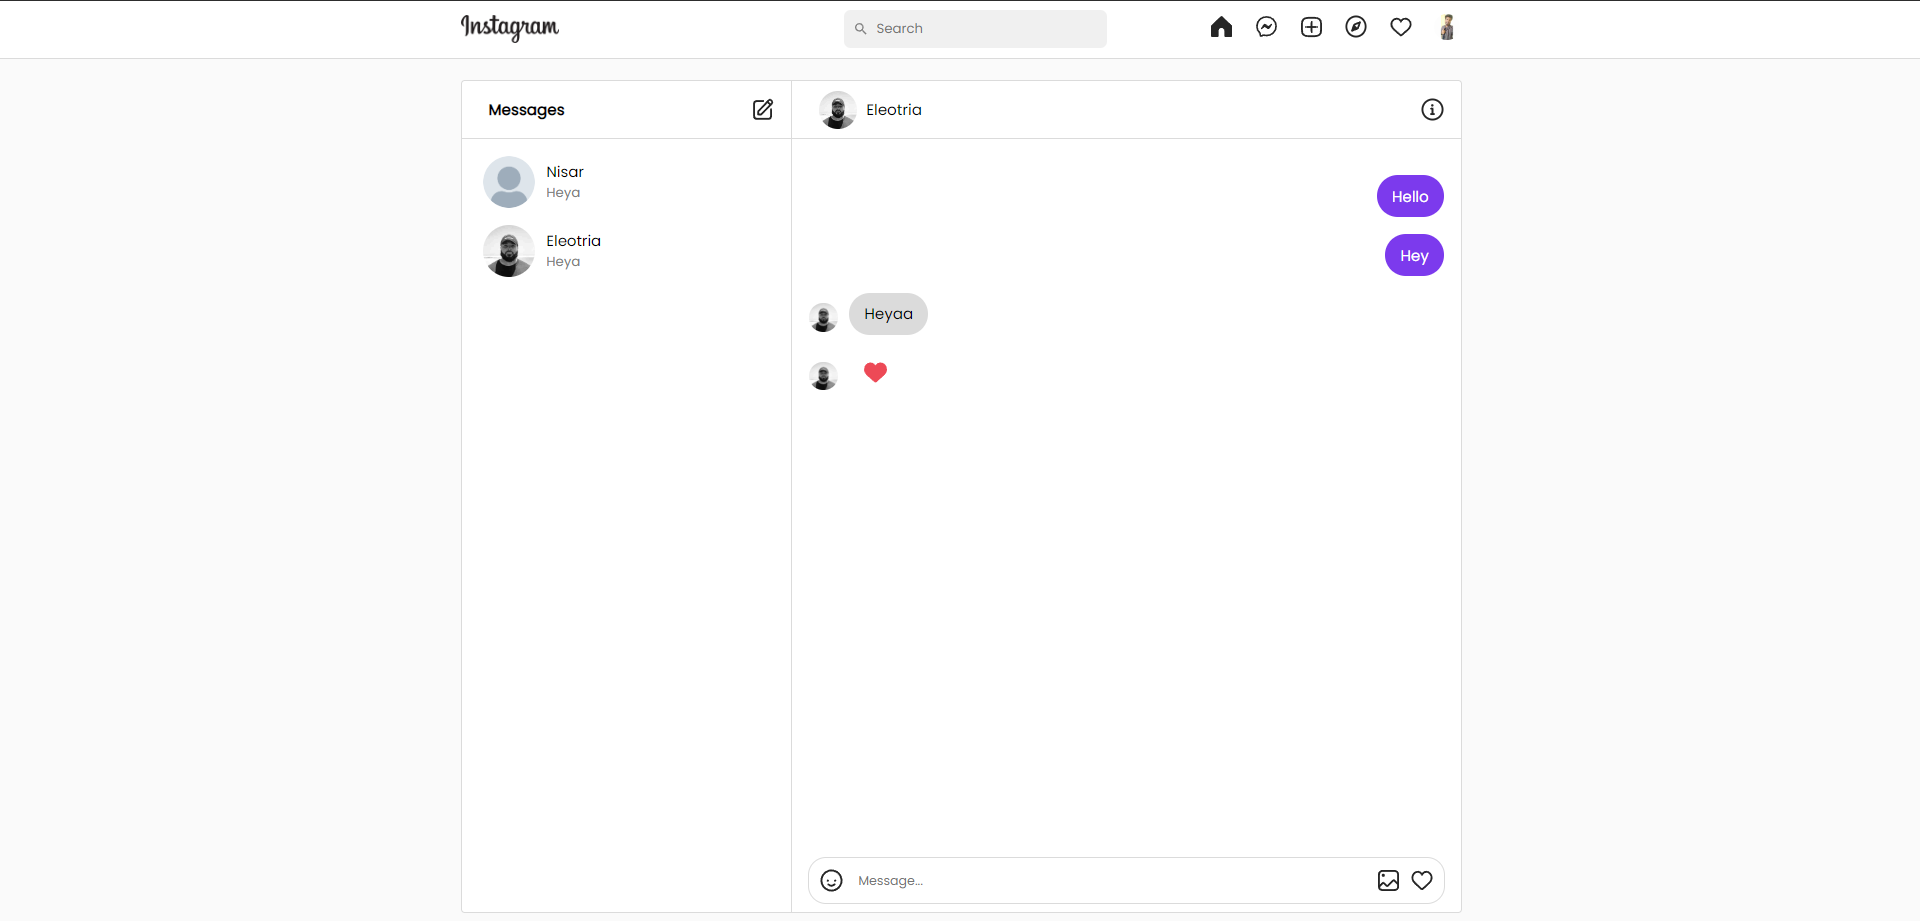
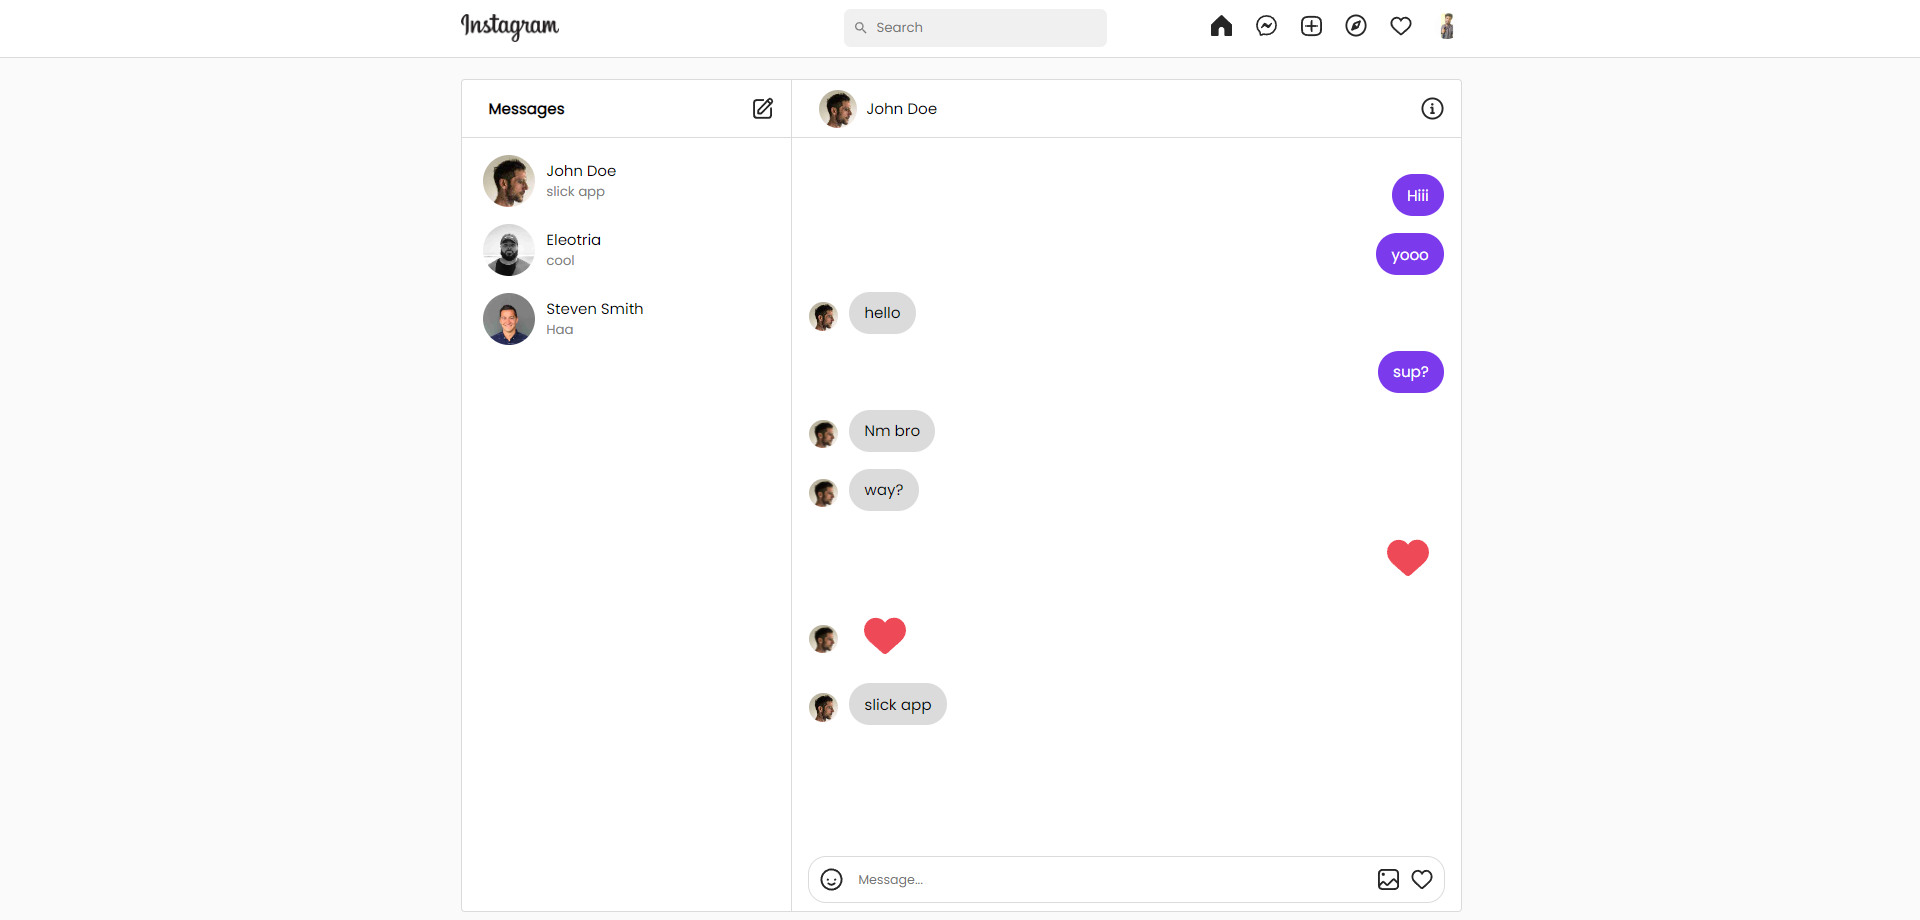
realtime chat added between users

diff --git a/frontend/src/components/chat/ChatBox.jsx b/frontend/src/components/chat/ChatBox.jsx
@@ -8,10 +8,63 @@ import { api } from '../../Interceptor/apiCall';
 import { url } from '../../baseUrl';
 import { useContext } from 'react';
 import { AuthContext } from '../../context/Auth'
+import { collection, addDoc, serverTimestamp, doc, onSnapshot, query, orderBy } from "firebase/firestore";
+import { db } from '../../firebase'
 
 export default function ChatBox({ roomId }) {
     const [RoomName, setRoomName] = useState('')
     const context = useContext(AuthContext)
+    const [roomImage, setRoomImage] = useState()
+    const [snapShotMessages, setSnapShotMessages] = useState([])
+    const q = query(collection(db, roomId), orderBy("timestamp", "asc"))
+
+    useEffect(() => {
+        const unsubscribe = onSnapshot(q, (querySnapshot) => {
+            const messages = [];
+            querySnapshot.forEach((doc) => {
+                messages.push(doc.data());
+            });
+            console.log(messages);
+            setSnapShotMessages(messages)
+        });
+        return () => unsubscribe()
+    }, [roomId])
+
+    //message handling
+    const [message, setMessage] = useState('')
+    async function handleMessage() {
+        try {
+            await addDoc(collection(db, roomId), {
+                message: message,
+                uid: context.auth._id,
+                timestamp: serverTimestamp()
+            });
+            setMessage('')
+        } catch (e) {
+            console.error(e);
+        }
+    }
+
+    function handleKeyPress(e) {
+        if (e.keyCode !== 13) return
+        handleMessage()
+    }
+    async function handleLike() {
+        try {
+            await addDoc(collection(db, roomId), {
+                message: "like_true",
+                uid: context.auth._id,
+                timestamp: serverTimestamp()
+            });
+            setMessage('')
+        } catch (e) {
+            console.error(e);
+        }
+    }
+    //  TODO:
+    // image send in chat
+    // emoji bar
+
 
     useEffect(() => {
         async function findRoomId() {
@@ -19,9 +72,9 @@ export default function ChatBox({ roomId }) {
                 const nameArr = res.data.people.filter(id => id !== context.auth._id)
                 return api.get(`${url}/user/get/${nameArr[0]}`).then((res) => {
                     setRoomName(res.data.name);
+                    setRoomImage(res.data.avatar)
                 })
             }).then((resp => {
-                console.log(resp.data);
                 setRoomName(resp.data.name)
             })).catch(err => console.log(err))
         }
@@ -32,7 +85,7 @@ export default function ChatBox({ roomId }) {
             <div className="header_chat" style={{ width: '100%', borderBottom: '1px solid #dbdbdb', height: '60px', display: 'flex', alignItems: 'center', justifyContent: 'space-between' }}>
                 <Link to={`/${""}`} >
                     <div className="info_user_chat" style={{ display: 'flex', flexDirection: 'row', alignItems: 'center', marginLeft: '28px' }}>
-                        <img src={defaultImg} style={{ width: '40px', borderRadius: '50%' }} alt="" />
+                        <img src={roomImage || defaultImg} style={{ width: '40px', borderRadius: '50%' }} alt="" />
                         <p style={{ marginLeft: '10px' }}>{RoomName}</p>
                     </div>
                 </Link>
@@ -45,7 +98,35 @@ export default function ChatBox({ roomId }) {
             </div>
             <div className="chat_content" style={{ width: '100%' }}>
                 <div className="converstaions " style={{ height: '72vh', overflowY: 'scroll', padding: '20px 0px', width: '100%' }}>
-                    <div className="my_text" style={{ marginLeft: 'auto', width: 'fit-content', marginRight: '18px', backgroundColor: '#7c3aed', color: 'white', padding: '10px 16px', borderRadius: '22px', marginTop: '18px' }}>
+
+                    {
+                        snapShotMessages.map(msg => {
+                            return context.auth._id === msg.uid ?
+                                msg.message === "like_true" ?
+                                    <div className="my_text" style={{ marginLeft: 'auto', width: 'fit-content', marginRight: '18px', color: 'white', padding: '10px 16px', borderRadius: '22px', marginTop: '18px', display: 'flex', justifyContent: 'center', alignItems: 'center', }}>
+                                        <svg aria-label="Like" className="_ab6-" color="#ed4956" fill="#ed4956" height="44" role="img" viewBox="0 0 48 48" width="44"><path d="M34.6 3.1c-4.5 0-7.9 1.8-10.6 5.6-2.7-3.7-6.1-5.5-10.6-5.5C6 3.1 0 9.6 0 17.6c0 7.3 5.4 12 10.6 16.5.6.5 1.3 1.1 1.9 1.7l2.3 2c4.4 3.9 6.6 5.9 7.6 6.5.5.3 1.1.5 1.6.5s1.1-.2 1.6-.5c1-.6 2.8-2.2 7.8-6.8l2-1.8c.7-.6 1.3-1.2 2-1.7C42.7 29.6 48 25 48 17.6c0-8-6-14.5-13.4-14.5z"></path></svg>
+                                    </div> :
+                                    <div className="my_text" style={{ marginLeft: 'auto', width: 'fit-content', marginRight: '18px', backgroundColor: '#7c3aed', color: 'white', padding: '10px 16px', borderRadius: '22px', marginTop: '18px' }}>
+                                        {msg.message}
+                                    </div>
+                                :
+                                msg.message === "like_true" ?
+                                    <div className="other_partytext" style={{ display: 'flex', flexDirection: 'row', alignItems: 'center', marginTop: '18px', }}>
+                                        <img style={{ width: '30px', borderRadius: '50%', marginBottom: '-7px', marginLeft: '18px' }} src={roomImage || defaultImg} alt="" />
+                                        <div className="other_text" style={{ width: 'fit-content', marginLeft: '12px', color: 'black', padding: '10px 16px', borderRadius: '22px', display: 'flex', justifyContent: 'center', alignItems: 'center', fontSize: '22px' }}>
+                                            <svg aria-label="Like" className="_ab6-" color="#ed4956" fill="#ed4956" height="44" role="img" viewBox="0 0 48 48" width="44"><path d="M34.6 3.1c-4.5 0-7.9 1.8-10.6 5.6-2.7-3.7-6.1-5.5-10.6-5.5C6 3.1 0 9.6 0 17.6c0 7.3 5.4 12 10.6 16.5.6.5 1.3 1.1 1.9 1.7l2.3 2c4.4 3.9 6.6 5.9 7.6 6.5.5.3 1.1.5 1.6.5s1.1-.2 1.6-.5c1-.6 2.8-2.2 7.8-6.8l2-1.8c.7-.6 1.3-1.2 2-1.7C42.7 29.6 48 25 48 17.6c0-8-6-14.5-13.4-14.5z"></path></svg>
+                                        </div>
+                                    </div>
+                                    :
+                                    <div className="other_partytext" style={{ display: 'flex', flexDirection: 'row', alignItems: 'center', marginTop: '18px', }}>
+                                        <img style={{ width: '30px', borderRadius: '50%', marginBottom: '-7px', marginLeft: '18px' }} src={roomImage || defaultImg} alt="" />
+                                        <div className="other_text" style={{ width: 'fit-content', marginLeft: '12px', backgroundColor: '#dbdbdb', color: 'black', padding: '10px 16px', borderRadius: '22px' }}>
+                                            {msg.message}
+                                        </div>
+                                    </div>
+                        })
+                    }
+                    {/* <div className="my_text" style={{ marginLeft: 'auto', width: 'fit-content', marginRight: '18px', backgroundColor: '#7c3aed', color: 'white', padding: '10px 16px', borderRadius: '22px', marginTop: '18px' }}>
                         Hello
                     </div>
                     <div className="my_text" style={{ marginLeft: 'auto', width: 'fit-content', marginRight: '18px', backgroundColor: '#7c3aed', color: 'white', padding: '10px 16px', borderRadius: '22px', marginTop: '18px' }}>
@@ -53,26 +134,23 @@ export default function ChatBox({ roomId }) {
                     </div>
 
                     <div className="other_partytext" style={{ display: 'flex', flexDirection: 'row', alignItems: 'center', marginTop: '18px', }}>
-                        <img style={{ width: '30px', borderRadius: '50%', marginBottom: '-7px', marginLeft: '18px' }} src={defaultImg} alt="" />
+                        <img style={{ width: '30px', borderRadius: '50%', marginBottom: '-7px', marginLeft: '18px' }} src={roomImage || defaultImg} alt="" />
                         <div className="other_text" style={{ width: 'fit-content', marginLeft: '12px', backgroundColor: '#dbdbdb', color: 'black', padding: '10px 16px', borderRadius: '22px' }}>
                             Heyaa
                         </div>
                     </div>
-                    <div className="other_partytext" style={{ display: 'flex', flexDirection: 'row', alignItems: 'center', marginTop: '18px', }}>
-                        <img style={{ width: '30px', borderRadius: '50%', marginBottom: '-7px', marginLeft: '18px' }} src={defaultImg} alt="" />
-                        <div className="other_text" style={{ width: 'fit-content', marginLeft: '12px', color: 'black', padding: '10px 16px', borderRadius: '22px', display: 'flex', justifyContent: 'center', alignItems: 'center', fontSize: '22px' }}>
-                            {likeFill}
-                        </div>
-                    </div>
+                     */}
 
                 </div>
 
                 <div className="input_container" style={{ width: '100%', position: 'absolute', bottom: '8px', zIndex: '22' }}>
                     <div className="input_box" style={{ width: '95%', display: 'flex', flexDirection: 'row', alignItems: 'center', border: '1px solid #dbdbdb', margin: 'auto', height: '48px', borderRadius: '19px', justifyContent: 'space-evenly' }}>
                         {emojiIcon}
-                        <input style={{ width: '80%', height: '100%', border: 'none', marginLeft: '5px', outline: 'none' }} type="text" placeholder='Message...' />
+                        <input onKeyDown={e => handleKeyPress(e)} onChange={e => setMessage(e.target.value)} value={message} style={{ width: '80%', height: '100%', border: 'none', marginLeft: '5px', outline: 'none' }} type="text" placeholder='Message...' />
                         {galleryIcon}
-                        {likeOutline}
+                        <button onClick={() => handleLike()} className='no_style' style={{ background: 'transparent', display: 'flex', alignItems: 'center', justifyContent: 'center' }}>
+                            {likeOutline}
+                        </button>
                     </div>
                 </div>
             </div>

diff --git a/frontend/src/components/chat/RoomName.jsx b/frontend/src/components/chat/RoomName.jsx
@@ -10,6 +10,7 @@ import { api } from '../../Interceptor/apiCall';
 
 export default function RoomName({ roomId }) {
     const context = useContext(AuthContext)
+    const [roomImage, setRoomImage] = useState()
     const [roomName, setRoomName] = useState('')
     useEffect(() => {
         async function findRoomId() {
@@ -17,6 +18,7 @@ export default function RoomName({ roomId }) {
                 const nameArr = res.data.people.filter(id => id !== context.auth._id)
                 return api.get(`${url}/user/get/${nameArr[0]}`).then((res) => {
                     setRoomName(res.data.name);
+                    setRoomImage(res.data.avatar)
                 })
             }).then((resp => {
                 console.log(resp.data);
@@ -27,7 +29,7 @@ export default function RoomName({ roomId }) {
     }, [context.auth._id, roomId])
     return (
         <Link to={`/chats/${roomId}`} style={{ display: 'flex', flexDirection: 'row', alignItems: 'center', margin: "18px 0", paddingLeft: '22px', cursor: 'pointer' }} >
-            <img style={{ borderRadius: '50%', width: '55px' }} src={defaultImg} alt="" />
+            <img style={{ borderRadius: '50%', width: '55px' }} src={roomImage || defaultImg} alt="" />
             <div className="nameandmsg" style={{ display: 'flex', flexDirection: 'column', alignItems: 'flex-start', marginLeft: '12px', }}>
                 <p style={{ fontSize: '15.75px' }}>{roomName ? roomName : "...."}</p>
                 <p style={{ fontSize: '14px', color: 'gray' }}>Heya</p>

diff --git a/frontend/src/firebase.js b/frontend/src/firebase.js
@@ -1,5 +1,6 @@
 import { initializeApp } from "firebase/app";
-import { getStorage} from "firebase/storage";
+import { getStorage } from "firebase/storage";
+import { getFirestore } from "firebase/firestore";
 
 const firebaseConfig = {
   apiKey: "AIzaSyCJRWgEM0Yp6gvzBo6vO1hSzCmz7x88dh8",
@@ -12,3 +13,4 @@ const firebaseConfig = {
 
 export const app = initializeApp(firebaseConfig);
 export const storage = getStorage();
+export const db = getFirestore(app);
